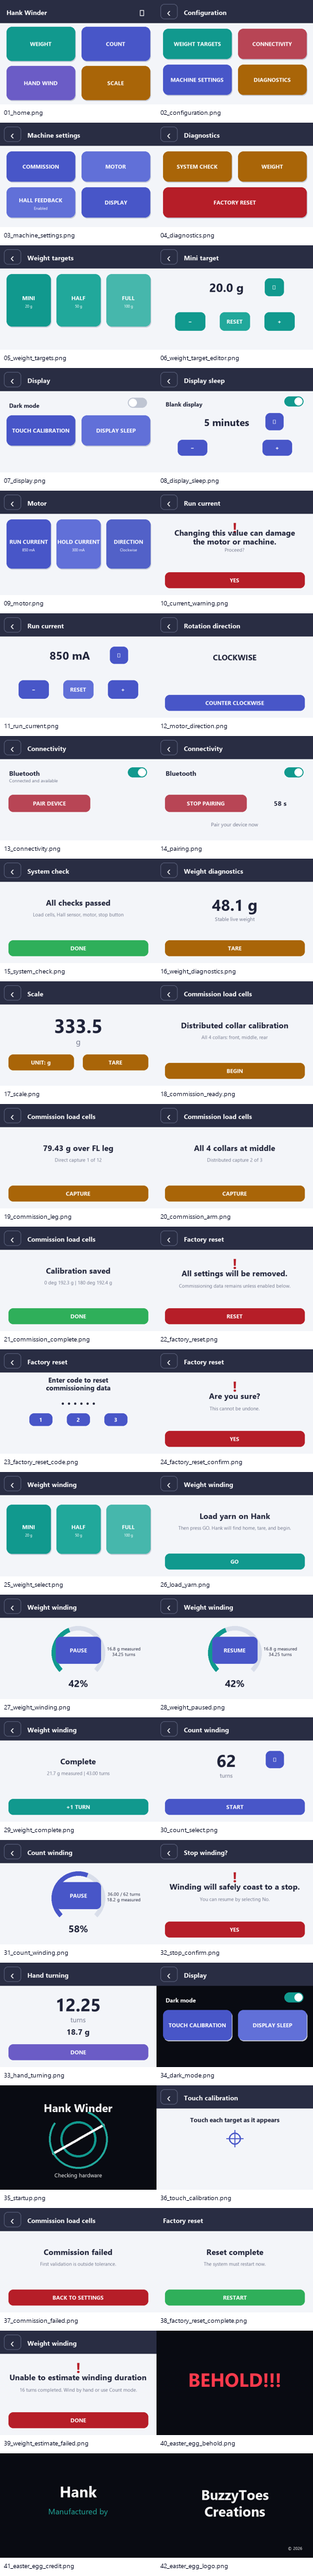
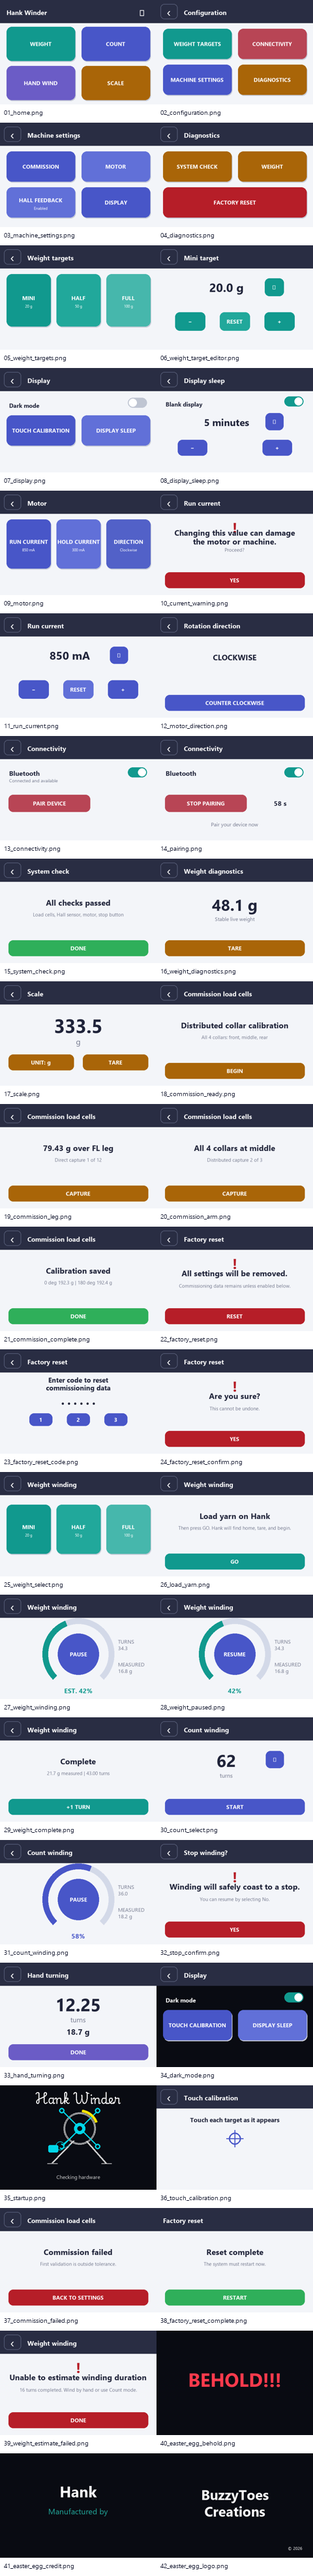
Align catalog winding and startup renders

diff --git a/tools/ui_catalog/render_touch_catalog.py b/tools/ui_catalog/render_touch_catalog.py
@@ -13,6 +13,7 @@ Run from the repository root:
 from __future__ import annotations
 
 from pathlib import Path
+import re
 from PIL import Image, ImageDraw, ImageFont
 
 ROOT = Path(__file__).resolve().parents[2]
@@ -31,6 +32,21 @@ def font(size: int, bold: bool = False):
         path = FONT_DIR / name
         if path.exists(): return ImageFont.truetype(str(path), size)
     return ImageFont.load_default()
+
+def draw_splash_title(im):
+    """Use the exact embedded Playwrite bitmap used before LVGL starts."""
+    source = (ROOT / "include" / "playwrite_splash_title.h").read_text(encoding="utf-8")
+    width = int(re.search(r"Width=(\d+)", source).group(1))
+    height = int(re.search(r"Height=(\d+)", source).group(1))
+    row_bytes = int(re.search(r"RowBytes=(\d+)", source).group(1))
+    bits = [int(value, 16) for value in re.findall(r"0x([0-9A-Fa-f]{2})", source)]
+    pixels = Image.new("RGBA", (width, height), (0, 0, 0, 0))
+    px = pixels.load()
+    for y in range(height):
+        for x in range(width):
+            if bits[y * row_bytes + x // 8] & (1 << (x & 7)):
+                px[x, y] = (255, 255, 255, 255)
+    im.paste(pixels, ((W - width) // 2, 18), pixels)
 
 def canvas(dark=False):
     return Image.new("RGB", (W, H), DARK if dark else BACKGROUND)
@@ -66,8 +82,9 @@ def toggle(draw, x, y, on=True):
     draw.ellipse((cx-r,y+15-r,cx+r,y+15+r), fill=WHITE)
 
 def gauge(draw, cx=240, cy=178, pct=42, color=TEAL):
-    box=(cx-82,cy-82,cx+82,cy+82); draw.arc(box, 135, 405, fill=TRACK, width=14)
-    draw.arc(box, 135, 135+270*pct/100, fill=color, width=14)
+    # Production: 220 px LVGL arc at (130,72), 18 px stroke, 135..405 degrees.
+    box=(cx-110,cy-110,cx+110,cy+110); draw.arc(box, 135, 405, fill="#D3D9E8", width=18)
+    draw.arc(box, 135, 135+270*pct/100, fill=color, width=18)
 
 def save(name, im):
     OUT.mkdir(parents=True, exist_ok=True); im.save(OUT / f"{name}.png")
@@ -145,11 +162,11 @@ def reset():
 def winding():
     im=canvas(); header(im,"Weight winding"); d=ImageDraw.Draw(im); card(d,"MINI",(20,100,135,150),TEAL,"20 g"); card(d,"HALF",(173,100,135,150),TEAL_LIGHT,"50 g"); card(d,"FULL",(326,100,135,150),"#46B7AC","100 g"); save("25_weight_select",im)
     simple("26_load_yarn","Weight winding","Load yarn on Hank","Then press GO. Hank will find home, tare, and begin.",True,"GO",TEAL)
-    im=canvas(); header(im,"Weight winding"); d=ImageDraw.Draw(im); gauge(d,pct=42,color=TEAL); button(d,"PAUSE",(171,129,138,82),BLUE); center(d,"42%",(240,270),30,INK,True); center(d,"16.8 g measured\n34.25 turns",(380,174),14,INK); save("27_weight_winding",im)
-    im=canvas(); header(im,"Weight winding"); d=ImageDraw.Draw(im); gauge(d,pct=42,color=TEAL); button(d,"RESUME",(171,129,138,82),BLUE); center(d,"42%",(240,270),30,INK,True); center(d,"16.8 g measured\n34.25 turns",(380,174),14,INK); save("28_weight_paused",im)
+    im=canvas(); header(im,"Weight winding"); d=ImageDraw.Draw(im); gauge(d,240,182,42,TEAL); d.ellipse((177,119,303,245),fill=BLUE); center(d,"PAUSE",(240,182),17,WHITE,True); center(d,"EST. 42%",(240,294),20,TEAL,True); d.text((362,132),"TURNS\n34.3",font=font(16),fill=MUTED,spacing=2); d.text((362,202),"MEASURED\n16.8 g",font=font(16),fill=MUTED,spacing=2); save("27_weight_winding",im)
+    im=canvas(); header(im,"Weight winding"); d=ImageDraw.Draw(im); gauge(d,240,182,42,TEAL); d.ellipse((177,119,303,245),fill=BLUE); center(d,"RESUME",(240,182),17,WHITE,True); center(d,"42%",(240,294),20,TEAL,True); d.text((362,132),"TURNS\n34.3",font=font(16),fill=MUTED,spacing=2); d.text((362,202),"MEASURED\n16.8 g",font=font(16),fill=MUTED,spacing=2); save("28_weight_paused",im)
     simple("29_weight_complete","Weight winding","Complete","21.7 g measured | 43.00 turns",True,"+1 TURN",TEAL)
     im=canvas(); header(im,"Count winding"); d=ImageDraw.Draw(im); center(d,"62",(214,130),52,INK,True); center(d,"turns",(214,177),18,MUTED); button(d,"⌨",(335,103,55,52),BLUE); button(d,"START",(26,250,428,48),BLUE); save("30_count_select",im)
-    im=canvas(); header(im,"Count winding"); d=ImageDraw.Draw(im); gauge(d,pct=58,color=BLUE); button(d,"PAUSE",(171,129,138,82),BLUE); center(d,"58%",(240,270),30,INK,True); center(d,"36.00 / 62 turns\n18.2 g measured",(380,174),14,INK); save("31_count_winding",im)
+    im=canvas(); header(im,"Count winding"); d=ImageDraw.Draw(im); gauge(d,240,182,58,BLUE); d.ellipse((177,119,303,245),fill=BLUE); center(d,"PAUSE",(240,182),17,WHITE,True); center(d,"58%",(240,294),20,BLUE,True); d.text((362,132),"TURNS\n36.0",font=font(16),fill=MUTED,spacing=2); d.text((362,202),"MEASURED\n18.2 g",font=font(16),fill=MUTED,spacing=2); save("31_count_winding",im)
     simple("32_stop_confirm","Stop winding?","Winding will safely coast to a stop.","You can resume by selecting No.",True,"YES",DANGER,True)
 
 def hand_turning():
@@ -159,7 +176,19 @@ def dark_mode():
     im=canvas(True); header(im,"Display",True,True); d=ImageDraw.Draw(im); d.text((28,102),"Dark mode",font=font(18,True),fill=WHITE); toggle(d,392,91,True); card(d,"TOUCH CALIBRATION",(20,145,210,92),BLUE); card(d,"DISPLAY SLEEP",(250,145,210,92),BLUE_LIGHT); save("34_dark_mode",im)
 
 def transitional():
-    im=canvas(True); d=ImageDraw.Draw(im); center(d,"Hank Winder",(240,68),34,WHITE,True); d.ellipse((185,110,295,220),outline=TEAL,width=7); d.line((240,165,160,210),fill=WHITE,width=8); d.line((240,165,320,120),fill=WHITE,width=8); d.arc((150,75,330,255),-70,215,fill=TEAL_LIGHT,width=6); center(d,"Checking hardware",(240,275),17,WHITE); save("35_startup",im)
+    im=canvas(True); d=ImageDraw.Draw(im)
+    draw_splash_title(im)
+    # Exact geometry from drawWinderMark(): rimmed hub, four offset arms,
+    # tripod and offset drive. This avoids the generic spinner used before.
+    hx,hy=244,132; cyan="#00D7E9"; frame="#D3D3D3"
+    d.ellipse((hx-49,hy-49,hx+49,hy+49),outline=frame,width=2); d.ellipse((hx-46,hy-46,hx+46,hy+46),outline=frame,width=2)
+    for dx,dy in ((-55,-55),(55,-55),(55,55),(-55,55)):
+        d.line((hx,hy,hx+dx,hy+dy),fill=cyan,width=2); d.line((hx+2,hy,hx+dx+2,hy+dy),fill=cyan,width=2); d.ellipse((hx+dx-8,hy+dy-8,hx+dx+8,hy+dy+8),fill=cyan); d.ellipse((hx+dx-4,hy+dy-4,hx+dx+4,hy+dy+4),fill=DARK)
+    d.ellipse((hx-17,hy-17,hx+17,hy+17),fill=cyan); d.ellipse((hx-7,hy-7,hx+7,hy+7),fill=DARK)
+    d.line((hx-20,hy+38,158,238),fill=frame,width=2); d.line((hx-17,hy+38,161,238),fill=frame,width=2); d.line((hx+22,hy+38,326,238),fill=frame,width=2); d.line((hx+19,hy+38,323,238),fill=frame,width=2); d.line((145,239,176,239),fill=frame,width=2); d.line((311,239,342,239),fill=frame,width=2)
+    d.ellipse((hx-73,hy+40,hx-47,hy+66),outline=cyan,width=2); d.line((hx-48,hy+45,hx-30,hy+30),fill=cyan,width=2); d.line((hx-51,hy+61,hx-28,hy+49),fill=cyan,width=2); d.rounded_rectangle((hx-96,hy+51,hx-66,hy+73),5,fill=cyan); d.ellipse((hx-65,hy+48,hx-55,hy+58),fill=DARK)
+    d.arc((hx-58,hy-58,hx+58,hy+58),278,340,fill="#FFE600",width=8)
+    center(d,"Checking hardware",(240,280),16,"#D3D3D3"); save("35_startup",im)
     im=canvas(); header(im,"Touch calibration"); d=ImageDraw.Draw(im); center(d,"Touch each target as it appears",(240,105),19,INK,True); d.ellipse((222,145,258,181),outline=BLUE,width=4); d.line((240,137,240,189),fill=BLUE,width=3); d.line((214,163,266,163),fill=BLUE,width=3); save("36_touch_calibration",im)
     simple("37_commission_failed","Commission load cells","Commission failed","First validation is outside tolerance.",True,"BACK TO SETTINGS",DANGER)
     simple("38_factory_reset_complete","Factory reset","Reset complete","The system must restart now.",False,"RESTART",SUCCESS)
